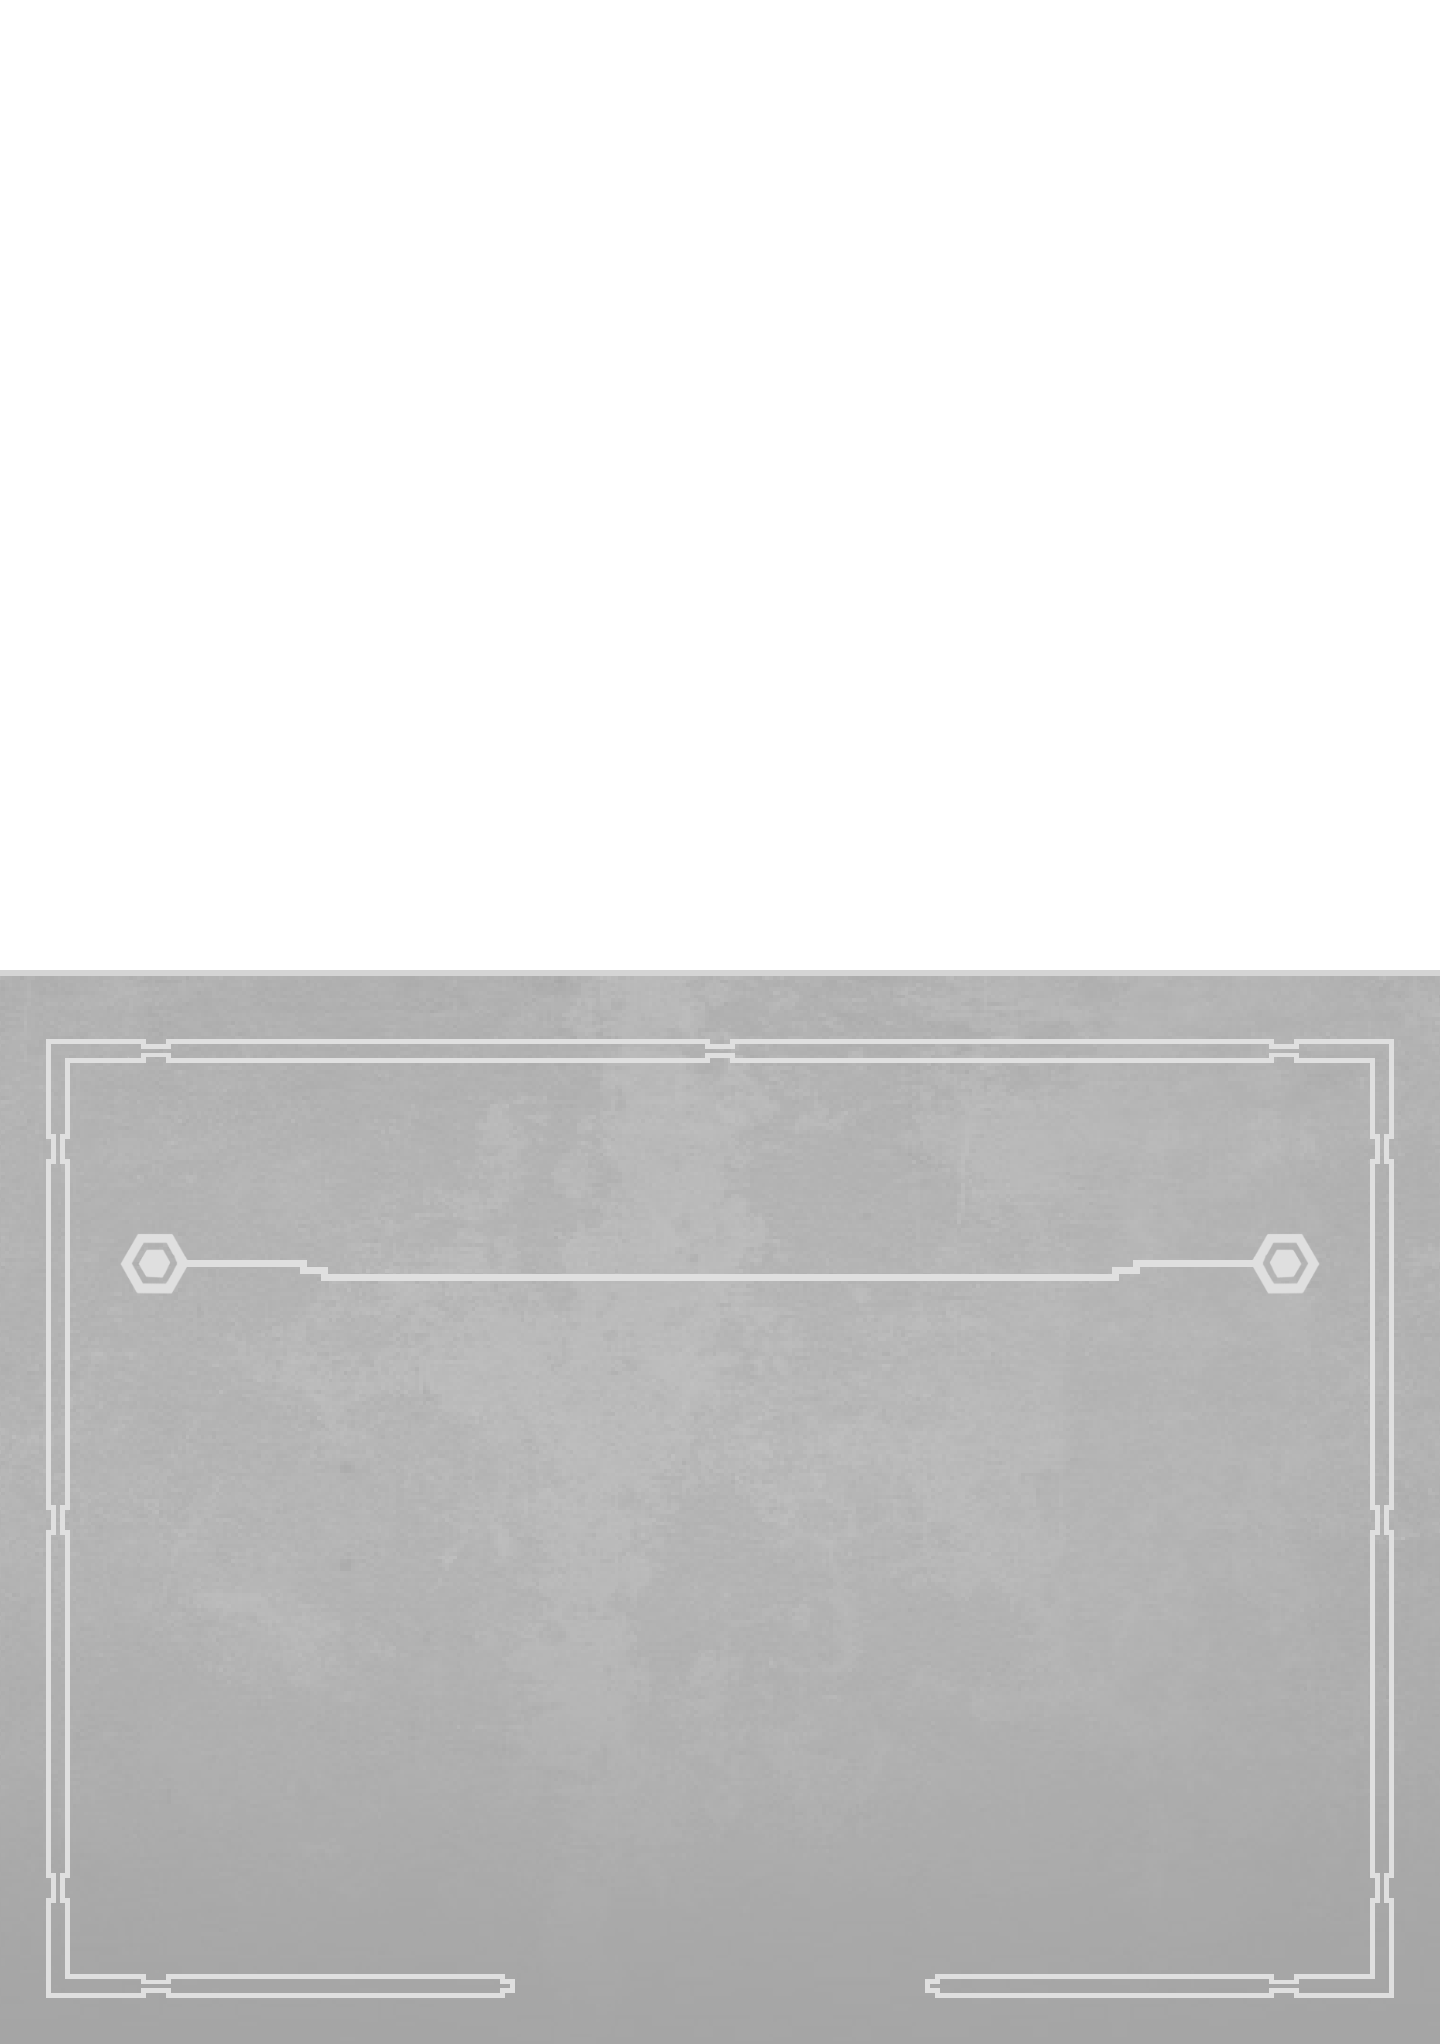
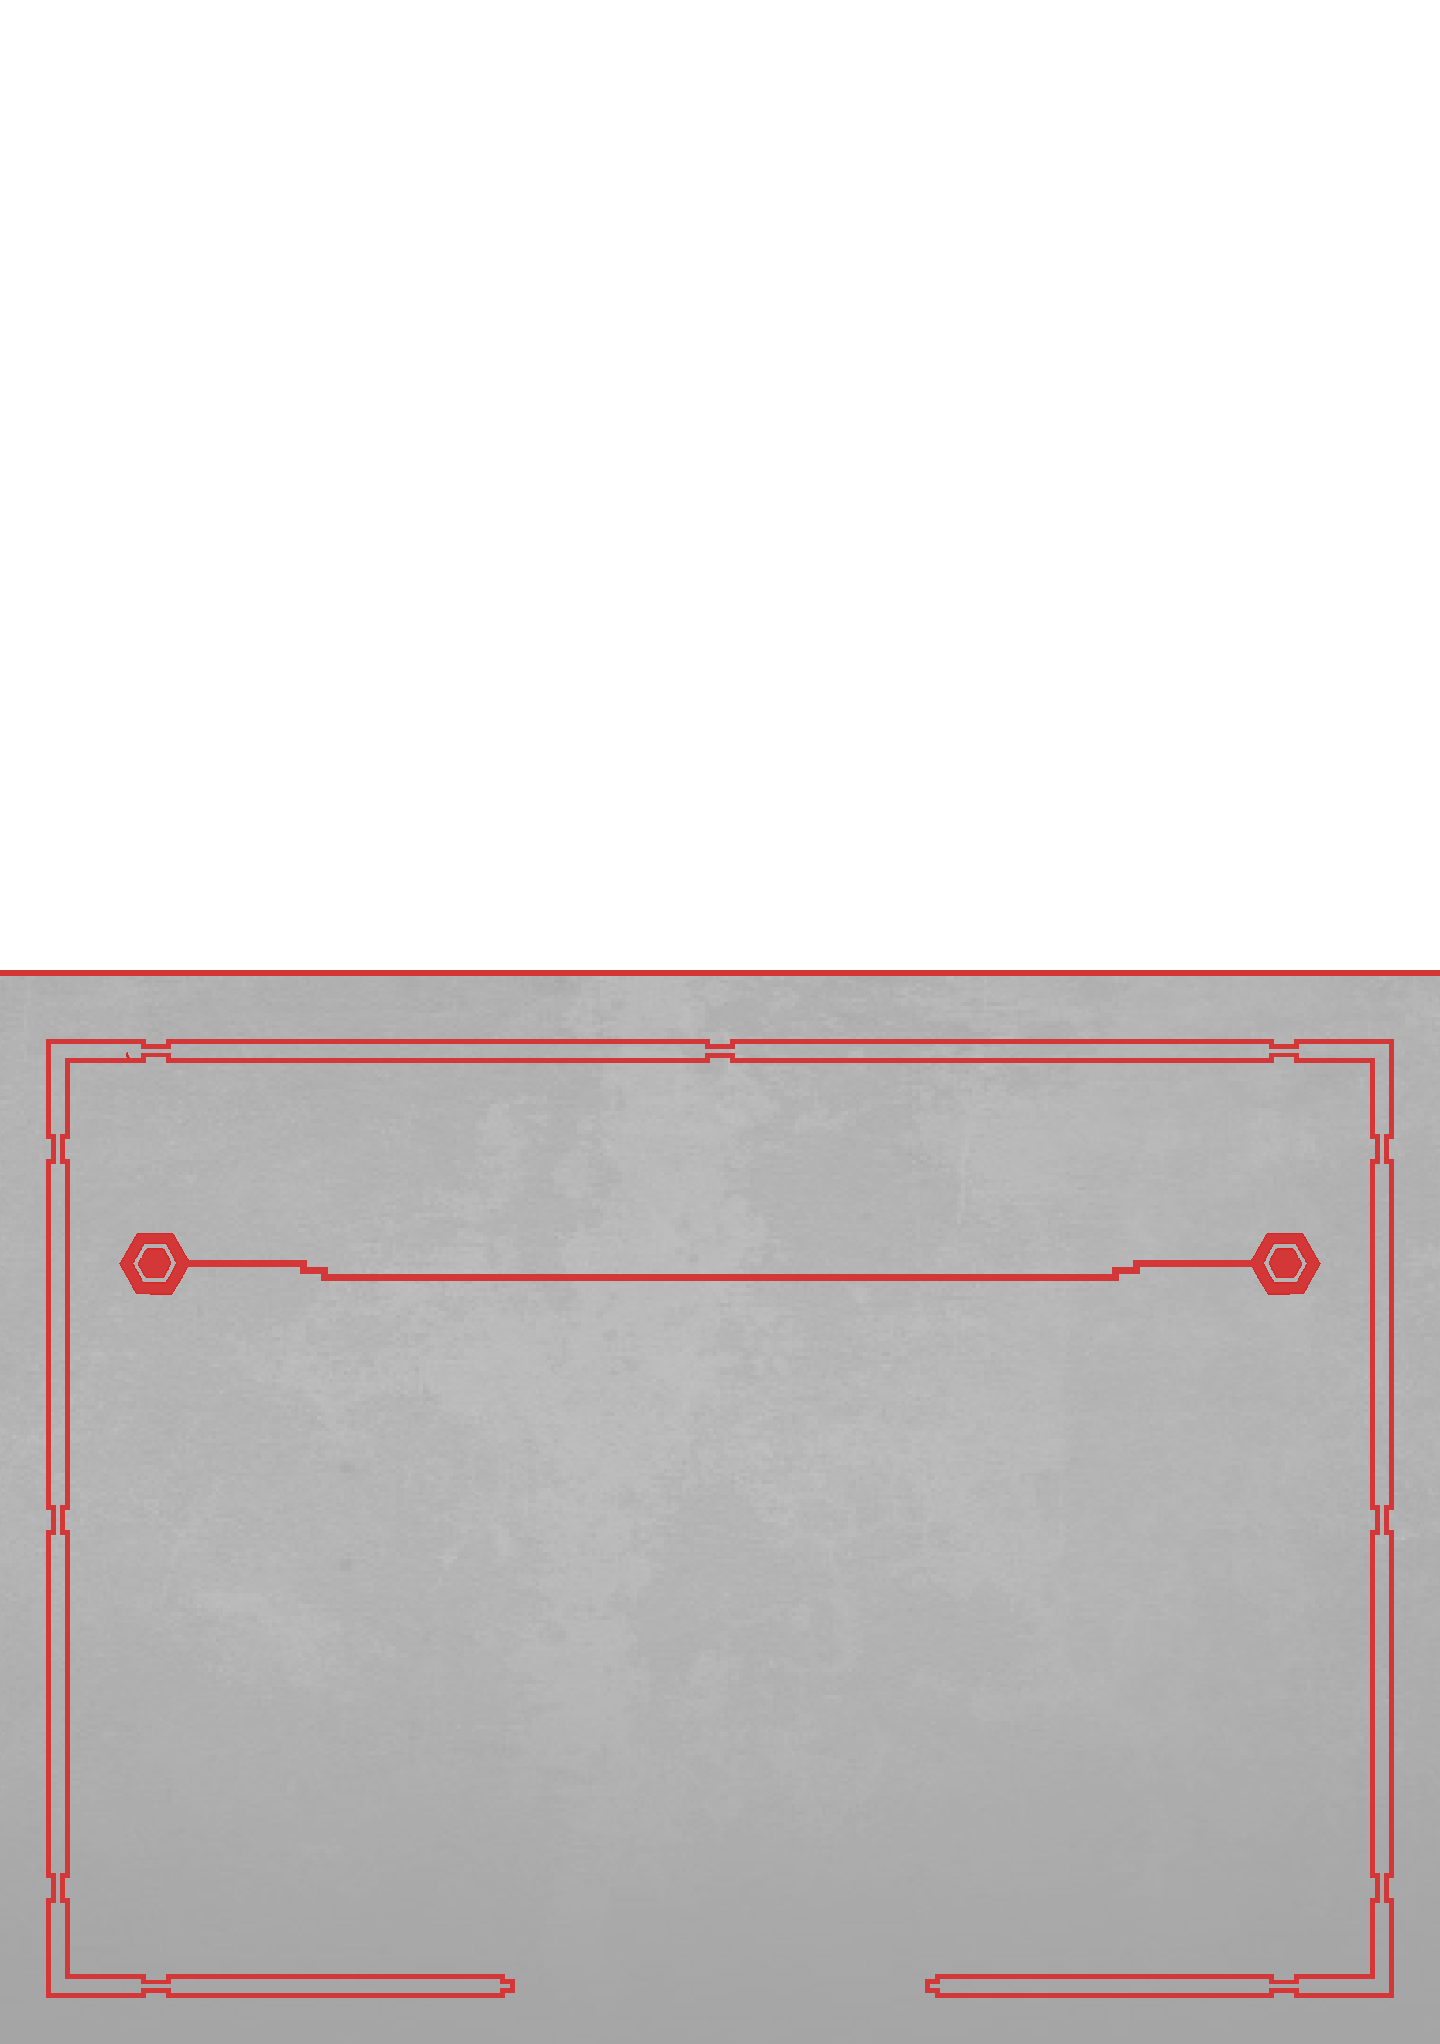
Values adjusted and test cards generated

Changed region(s): [[0.0312, 0.4932, 0.9688, 0.9863], [0.0938, 0.5856, 0.9062, 0.6473]]

diff --git a/CardGeneration/PrepareText.cs b/CardGeneration/PrepareText.cs
@@ -94,6 +94,84 @@ namespace NintenVil_Card_Generator.CardGeneration
 		}
 
 		/// <summary>
+		/// Creates an image in TextIntermediary that contains the subtitle.
+		/// </summary>
+		/// <param name="text">subtitle text</param>
+		/// <param name="font">font to draw the subtitle in</param>
+		/// <param name="textColor">color to draw the subtitle in</param>
+		/// <param name="maxWidth">maximum width the subtitle is allowed to take up</param>
+		/// <param name="maxHeight">maximum height the subtitle is allowed to take up</param>
+		public static void DrawSubtitle(string text, Font font, Color textColor, int maxWidth, int maxHeight)
+		{
+			// For subtitles, capitalize the text
+			text = text.ToUpper();
+
+			// Set the stringformat flags for center alignment and no trimming
+			StringFormat sf = StringFormat.GenericTypographic;
+			sf.Trimming = StringTrimming.None;
+			sf.Alignment = StringAlignment.Center;
+			sf.LineAlignment = StringAlignment.Center;
+
+			// Create a new image of the maximum size for our graphics
+			Image img = new Bitmap(maxWidth, maxHeight);
+			Graphics drawing = Graphics.FromImage(img);
+
+			// Use high quality everything
+			drawing.CompositingQuality = CompositingQuality.HighQuality;
+			drawing.InterpolationMode = InterpolationMode.HighQualityBilinear;
+			drawing.PixelOffsetMode = PixelOffsetMode.HighQuality;
+			drawing.SmoothingMode = SmoothingMode.HighQuality;
+			drawing.TextRenderingHint = TextRenderingHint.AntiAliasGridFit;
+			
+			// Paint a transparent background
+			drawing.Clear(Color.Transparent);
+
+			// Create a brush for the text
+			Brush textBrush = new SolidBrush(textColor);
+
+			// One line maximum
+			float textHeight = (float)Math.Ceiling(drawing.MeasureString(text, font, 100000, sf).Height);
+
+			// Find the proper squish ratio for given subtitle
+			float textFullWidth = drawing.MeasureString(text, font, 100000, sf).Width;
+			if (textFullWidth > maxWidth)
+			{
+				float horizontalSquish = maxWidth / textFullWidth;
+				drawing.ScaleTransform(horizontalSquish, 1.0F);
+				maxWidth = (int)textFullWidth;
+			}
+
+			// Get all the words
+			List<CardWord> words = GetCardWords(text, textBrush, font, null);
+
+			// Set up variables
+			float startY = (maxHeight - textHeight) / 2;
+
+			// Draw title word by word
+			float currentX = (maxWidth - textFullWidth) / 2;
+			foreach (CardWord word in words)
+			{
+				float wordWidth = word.GetSizeF(drawing, maxWidth, sf).Width;
+				float wordHeight = word.GetSizeF(drawing, maxWidth, sf).Height;
+				drawing.DrawString(word.GetText(), word.GetTextFont(), word.GetTextBrush(), new RectangleF(currentX, startY, wordWidth, wordHeight), sf);
+				currentX += wordWidth;
+			}
+
+			drawing.Save();
+
+			textBrush.Dispose();
+			drawing.Dispose();
+
+			// Ensure output directory exists and save per-element PNG
+			var relativeOutDir = Path.Combine("temp", "TextIntermediary");
+            var outDir = PathHelper.GetFullPath(relativeOutDir);
+			Directory.CreateDirectory(outDir);
+			var outpath = Path.Combine(outDir, "Subtitle.png");
+			img.Save(outpath, ImageFormat.Png);
+			img.Dispose();
+		}
+
+		/// <summary>
 		/// Creates an image in TextIntermediary that contains all of the text/assets needed for an ability.
 		/// </summary>
 		/// <param name="ability">ability of the card</param>
@@ -235,7 +313,7 @@ namespace NintenVil_Card_Generator.CardGeneration
 					{
 						currentY = lineHeight * 0.25F;
 					}
-					DrawSymbol(activateSymbol, drawing, symbolCenterX, currentY + actionSymbolLines * lineHeight / 2, resizing);
+					DrawSymbol(activateSymbol, drawing, textColor, symbolCenterX, currentY + actionSymbolLines * lineHeight / 2, resizing);
 					
 					// Cost, if any
 					if (activateCost != "")
@@ -272,7 +350,7 @@ namespace NintenVil_Card_Generator.CardGeneration
 				{
 					// Symbol
 					symbolCenterX = sideAACenterX - sideAAMaxW / 2 - 100 - activateSymbol.Width * resizing / 2;
-					DrawSymbol(activateSymbol, drawing, symbolCenterX, currentY + activateAbilityHeight / 2, resizing);
+					DrawSymbol(activateSymbol, drawing, textColor, symbolCenterX, currentY + activateAbilityHeight / 2, resizing);
 					
 					// Activate ability
 					words = GetCardWords(activateAbility, textBrush, font, keywordsAndColors);
@@ -303,14 +381,14 @@ namespace NintenVil_Card_Generator.CardGeneration
 				string gainsSymbolPath = PathHelper.GetFullPath(Path.Combine("assets", assetName + ".png"));
 				Image gainsSymbol = Image.FromFile(gainsSymbolPath);
 				float resizing = actionSymbolLines * lineHeight / gainsSymbol.Height;
-				DrawSymbol(gainsSymbol, drawing, maxWidth / 2, currentY + actionSymbolLines * lineHeight / 2, resizing);
+				DrawSymbol(gainsSymbol, drawing, textColor, maxWidth / 2, currentY + actionSymbolLines * lineHeight / 2, resizing);
 
 				// If this was a Gain Power action, draw the amount to be gained
 				if (gainPowerAmt != "")
 				{
 					Font gainPowerFont = FontLoader.GetFont(
 						ConfigHelper.GetConfigValue("text", "elementFont"),
-						float.Parse(ConfigHelper.GetConfigValue("text", "costFontSize")) * resizing
+						float.Parse(ConfigHelper.GetConfigValue("text", "costFontSize")) * lineHeightRatio
 					);
 					PointF gainPowerPos = new(
 						maxWidth / 2,
@@ -698,7 +776,9 @@ namespace NintenVil_Card_Generator.CardGeneration
 			// Set up variables we'll potentially need
 			float dlLines = float.Parse(ConfigHelper.GetConfigValue("asset", "dividingLineLines"));
 			float asLines = float.Parse(ConfigHelper.GetConfigValue("asset", "actionSymbolLines"));
-			Color color = ColorTranslator.FromHtml("#" + ConfigHelper.GetConfigValue("color", "fontColor"));
+			Color color = SettingsHelper.GetSettingsValue("Text", "textColor") == "" ? 
+				ColorTranslator.FromHtml("#" + ConfigHelper.GetConfigValue("color", "fontColor")) :
+				ColorTranslator.FromHtml(SettingsHelper.GetSettingsValue("Text", "textColor"));
 			Brush brush = new SolidBrush(color);
 
 			// Draw text word by word
@@ -786,7 +866,7 @@ namespace NintenVil_Card_Generator.CardGeneration
 					Image asset = Image.FromFile(gainsSymbolPath);
 					float resizing = string.Equals(assetName, "DividingLine") ? 1.0F : asLines * lineH / asset.Height;
 					float yOffset = string.Equals(assetName, "DividingLine") ? dlLines * lineH / 2 : asLines * lineH / 2;
-					DrawSymbol(asset, g, maxW / 2, currentY + yOffset, resizing);
+					DrawSymbol(asset, g, color, maxW / 2, currentY + yOffset, resizing);
 
 					// If this was a Gain Power action, draw the amount to be gained
 					if (gainPowerAmt != "")
@@ -829,9 +909,10 @@ namespace NintenVil_Card_Generator.CardGeneration
 		/// <param name="centerX">the x-coordinate of the center of the symbol</param>
 		/// <param name="centerY">the y-coordinate of the center of the symbol</param>
 		/// <param name="resizing">optional resizing factor</param>
-		private static void DrawSymbol(Image symbol, Graphics g, float centerX, float centerY, float resizing = 1.0F)
+		private static void DrawSymbol(Image symbol, Graphics g, Color color, float centerX, float centerY, float resizing = 1.0F)
 		{
 			Bitmap b = new(symbol, new Size((int)(symbol.Width * resizing), (int)(symbol.Height * resizing)));
+			MiscHelper.ColorSymbol(b, color);
 			float x = centerX - resizing * symbol.Width / 2;
 			float y = centerY - resizing * symbol.Height / 2;
 			g.DrawImage(b, new PointF(x, y));

diff --git a/Program.cs b/Program.cs
@@ -19,7 +19,9 @@ class Program
         }
         
         // Setup variables
-        Color textColor = ColorTranslator.FromHtml("#" + ConfigHelper.GetConfigValue("color", "fontColor"));
+        Color textColor = SettingsHelper.GetSettingsValue("Text", "textColor") == "" ? 
+            ColorTranslator.FromHtml("#" + ConfigHelper.GetConfigValue("color", "fontColor")) :
+            ColorTranslator.FromHtml(SettingsHelper.GetSettingsValue("Text", "textColor"));
         int titleAreaMaxWidth = SettingsHelper.GetSettingsValue("Card", "titleMaxWidth") == "" ?
             int.Parse(ConfigHelper.GetConfigValue("card", "textAreaMaxWidth")) :
             int.Parse(SettingsHelper.GetSettingsValue("Card", "titleMaxWidth"));
@@ -36,6 +38,7 @@ class Program
         // Load all the fonts
         string titleFontFile = ConfigHelper.GetConfigValue("text", "titleFont");
         int titleFontSize = int.Parse(ConfigHelper.GetConfigValue("text", "titleFontSize"));
+        int subtitleFontSize = int.Parse(ConfigHelper.GetConfigValue("text", "subtitleFontSize"));
         string abilityFontFile = ConfigHelper.GetConfigValue("text", "abilityFont");
         int abilityFontSize = int.Parse(ConfigHelper.GetConfigValue("text", "abilityFontSize"));
         string elementFontFile = ConfigHelper.GetConfigValue("text", "elementFont");
@@ -46,6 +49,7 @@ class Program
         string typeFontFile = ConfigHelper.GetConfigValue("text", "typeFont");
         int typeFontSize = int.Parse(ConfigHelper.GetConfigValue("text", "typeFontSize"));
         Font titleFont = FontLoader.GetFont(titleFontFile, titleFontSize);
+        Font subtitleFont = FontLoader.GetFont(titleFontFile, subtitleFontSize);
 		Font abilityFont = FontLoader.GetFont(abilityFontFile, abilityFontSize);
         Font typeFont = FontLoader.GetFont(typeFontFile, typeFontSize);
 		Font costFont = FontLoader.GetFont(elementFontFile, costFontSize);
@@ -87,7 +91,18 @@ class Program
                     // Skip cards that do not have all the necessary elements
                     if (title != "" && (ability != "" || activateAbility != "" || activateCost != "" || gainsAction != "") && type != "")
                     {
-                        DrawTitle(title, titleFont, textColor, titleAreaMaxWidth, titleAreaMaxHeight);
+                        if (title.Split("%").Length > 1)
+                        {
+                            string mainTitle = title.Split("%")[0];
+                            string subtitle = title.Split("%")[1];
+                            DrawTitle(mainTitle, titleFont, textColor, titleAreaMaxWidth, titleAreaMaxHeight);
+                            DrawSubtitle(subtitle, subtitleFont, textColor, titleAreaMaxWidth, titleAreaMaxHeight);
+                            title = mainTitle;
+                        }
+                        else
+                        {
+                            DrawTitle(title, titleFont, textColor, titleAreaMaxWidth, titleAreaMaxHeight);
+                        }
                         DrawAbility(ability, activateAbility, activateCost, gainsAction, abilityFont, textColor, abilityAreaMaxWidth, abilityAreaMaxHeight, keywordsAndColors);
                         DrawType(type, typeFont, textColor, typeAreaMaxWidth, typeAreaMaxHeight, keywordsAndColors);
                         if (cost != "") DrawCornerElement(cost, costFont, textColor, "Cost", cornerElementMaxWidth, cornerElementMaxHeight);

diff --git a/CardGeneration/PrepareImage.cs b/CardGeneration/PrepareImage.cs
@@ -73,6 +73,7 @@ namespace NintenVil_Card_Generator.CardGeneration
 			var imagePath = Path.Combine(imageIntermediaryPath, cardTitle + ".png");
 			var altImagePath = Path.Combine(assetsPath, "black_bg.png");
 			var titlePath = Path.Combine(textIntermediaryPath, "Title.png");
+			var subtitlePath = Path.Combine(textIntermediaryPath, "Subtitle.png");
 			var abilityPath = Path.Combine(textIntermediaryPath, "Ability.png");
 			var typePath = Path.Combine(textIntermediaryPath, "Type.png");
 			var costPath = Path.Combine(textIntermediaryPath, "Cost.png");
@@ -122,7 +123,17 @@ namespace NintenVil_Card_Generator.CardGeneration
 			// Title
 			using (Image titleImg = Image.FromFile(titlePath))
 			{
+				bool subtitle = File.Exists(subtitlePath);
 				Point titleCenter = MiscHelper.GetElementPos("title");
+				if (subtitle)
+				{
+					using (Image subtitleImg = Image.FromFile(subtitlePath))
+					{
+						titleCenter.Offset(new Point(0, int.Parse(ConfigHelper.GetConfigValue("layout", "titleSubtitleOffsetY"))));
+						Point subtitleCenter = new Point(int.Parse(ConfigHelper.GetConfigValue("layout", "titleCenterX")), int.Parse(ConfigHelper.GetConfigValue("layout", "subtitleCenterY")));
+						g.DrawImage(subtitleImg, subtitleCenter.X - subtitleImg.Width / 2, subtitleCenter.Y - subtitleImg.Height / 2);
+					}
+				}
 				g.DrawImage(titleImg, titleCenter.X - titleImg.Width / 2, titleCenter.Y - titleImg.Height / 2);
 			}
 			

diff --git a/CardGeneration/MiscHelper.cs b/CardGeneration/MiscHelper.cs
@@ -1,5 +1,6 @@
 using System;
 using System.Drawing;
+using System.Reflection;
 using System.Runtime.InteropServices;
 
 namespace NintenVil_Card_Generator.CardGeneration
@@ -154,6 +155,23 @@ namespace NintenVil_Card_Generator.CardGeneration
 		}
 
 		/// <summary>
+		/// Changes the color of the given symbol.
+		/// </summary>
+		/// <param name="symbol">the symbol to change</param>
+		/// <param name="color">the color to change the symbol to</param>
+		public static void ColorSymbol(Bitmap symbol, Color color)
+		{
+			for (int x = 0; x < symbol.Width; x++)
+			{
+				for (int y = 0; y < symbol.Height; y++)
+				{
+					int alpha = symbol.GetPixel(x, y).A;
+					symbol.SetPixel(x, y, Color.FromArgb(alpha, color));
+				}
+			}
+		}
+
+		/// <summary>
 		/// Helper method to capitalize just the first letter in a string.
 		/// </summary>
 		/// <param name="input">String to be capitalized</param>
@@ -176,7 +194,7 @@ namespace NintenVil_Card_Generator.CardGeneration
 		/// <returns>Whether or not given text is punctuation.</returns>
 		public static bool IsPunctuation(string text)
 		{
-			if (".?!,;:/-".Contains(text))
+			if (".?!,;:/".Contains(text))
 			{
 				return true;
 			}

diff --git a/README.md b/README.md
@@ -6,7 +6,7 @@ Ensure you have Git installed on your system. [Here](https://git-scm.com/install
 
 - Open up Terminal and navigate to the folder where you will store this generator (I recommend Desktop or Documents).
   - For faster navigation, simply right-click on the desired folder and choose "Open in Terminal"
-- With Git installed, simply type `git clone https://github.com/Pingpong403/ToonVil-Card-Generator` and press ENTER.
+- With Git installed, simply type `git clone https://github.com/Pingpong403/NintenVil-Card-Generator` and press ENTER.
 - Once it's done cloning, this generator is ready to use!
   - To update the generator when a patch is released, use `git pull`
   <br> *NOTE: you will overwrite your work if you pull without first copying your files into a temporary folder outside the project folder. Always make a backup before patching!*
@@ -15,9 +15,9 @@ Ensure you have Git installed on your system. [Here](https://git-scm.com/install
 1) Update the files in -TextFiles with your card data
 2) Place layout and card images in -Layout and -Images, respectively
 3) Update the files in -Settings, if desired
-4) Run `generator.exe` to assemble the cards. They will be found in -Exports
+4) Run `NintenVil-Card-Generator.exe` to assemble the cards. They will be found in -Exports
 
 ## Disclaimer
 I did not create, nor was I involved in the development of, any official Villainous titles. I am not affiliated with Ravensburger (RA) in any way. I am not receiving financial compensation from RA or any other third party.
 
-I did not create the Animation Villainous (ToonVil) system.
+I did not create the Nintendo Villainous (NintenVil) system.
